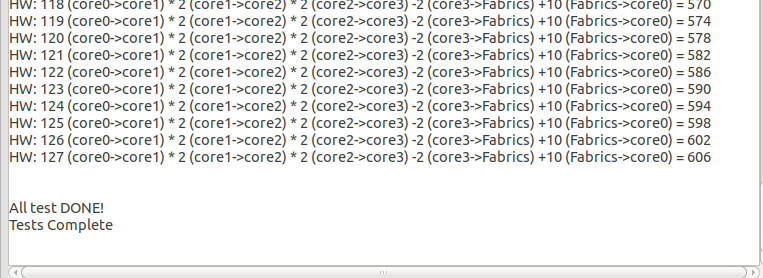
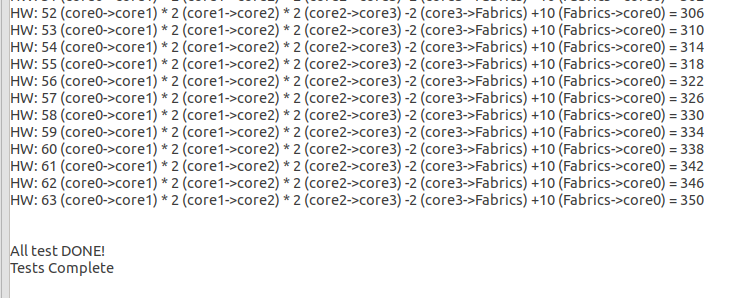
update images

diff --git a/README.md b/README.md
@@ -124,15 +124,20 @@ as step 10 in tutorial 1. You should see the core0 will final get data_send\*2\*
 
 ## Tutorial 3
 This tutorial will show you how to measure the throughput of SW stream and HW stream.
-We will measure the througuput of a stream loop (*core0->core1-core2-core3-core0*) . 
-
+We will measure the througuput between core0 and core1. These 2 cores can be connected
+by either SW stream or HW stream.
 
 1. Open main.cc file under **core0->src->main.cc**. Comment **#define TEST_MODE CIRCLE**
 and uncoment **#define TEST_MODE SW_THP**. Make the same changes for core1-3.
 
 ![](./images/comment_sw.png)
 
-2. Change the Optimization level from **O0** to **O3**. You can right click project core0 and choose properties.
+2. Open kernel0.cc file under **core0->src->kernel0.cc**. Increase **DATA_BYTE_SIZE** from 1024 to 409600.
+Make the same changes for core1.
+
+![](./images/size.png)
+
+3. Change the Optimization level from **O0** to **O3**. You can right click project core0 and choose properties.
 
 ![](./images/property.jpg)
 
@@ -140,8 +145,6 @@ Click **C/C++ Build->Settings->ARM v8 g++ compiler->Optimization** as below.
 Make the same changes for core1-3.
 
 ![](./images/O3.jpg)
-
-3. Repeate steps 1-2 for core1-3.
 
 4. Rebuild core0-3 project. Click **Run->Run Configurations->Run** again to lauch on hardware as Tutorial Step 9-11.
 You should see the SW throughput between 
